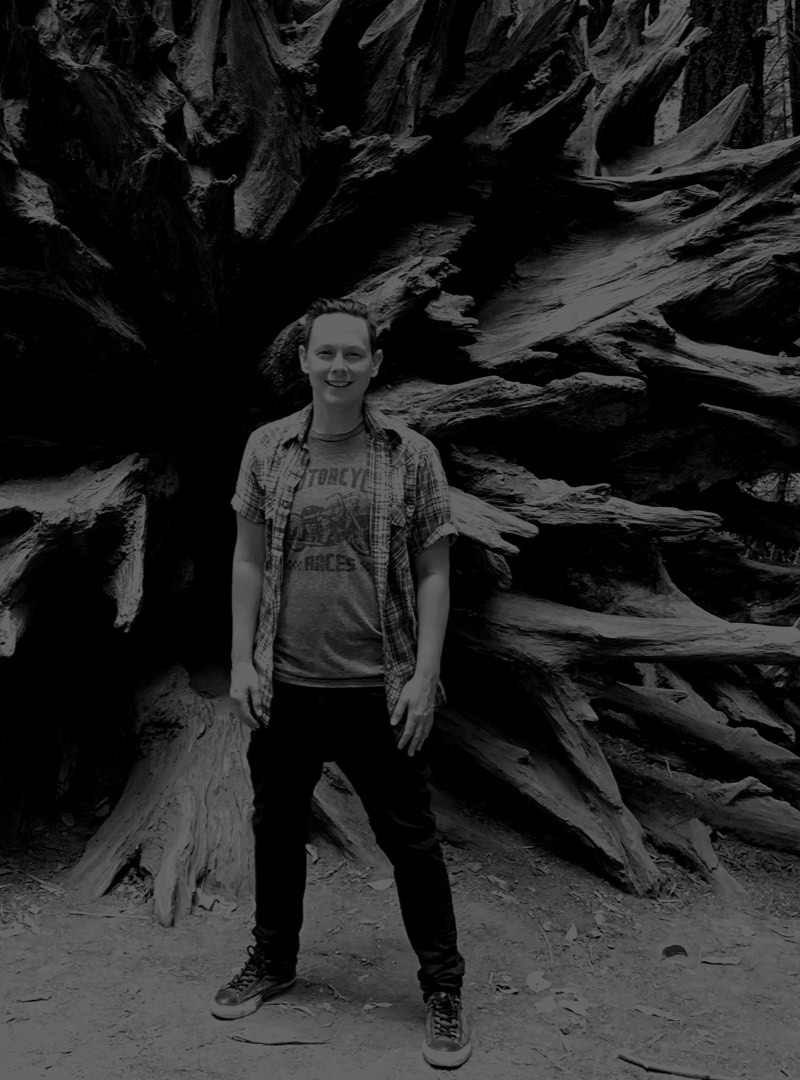
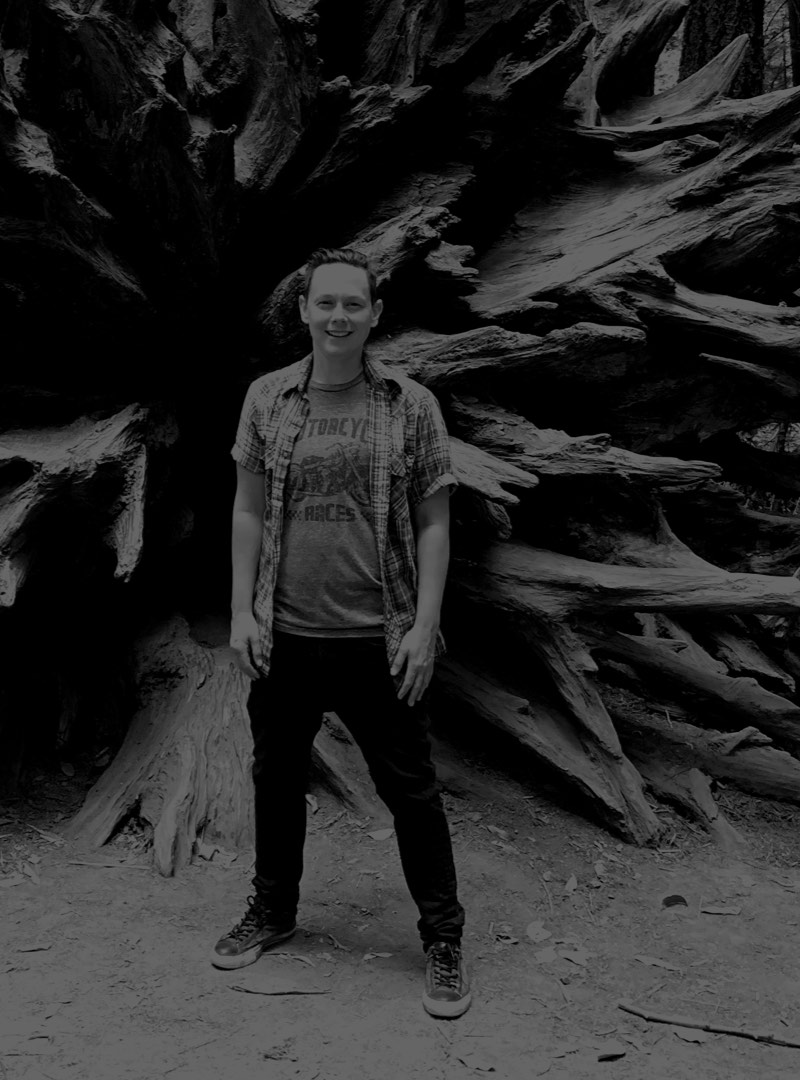
fixed bio image again

diff --git a/main.css b/main.css
@@ -240,6 +240,10 @@ button {
     min-height: auto;
   }
 
+  .bgimage {
+    background: url(images/background/img_bio_1200x1080.jpg);
+  }
+
   .project-img {
     width: 100%;
   }
@@ -268,7 +272,7 @@ section.bio {
   padding-left: 60px;
 }
 
-@media only screen and (max-width: 500px) {
+@media only screen and (max-width: 600px) {
   button {
     width: 100%;
     margin-bottom: 18px;
